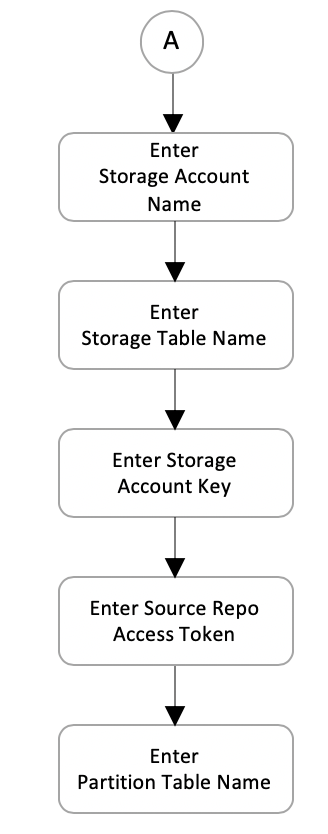
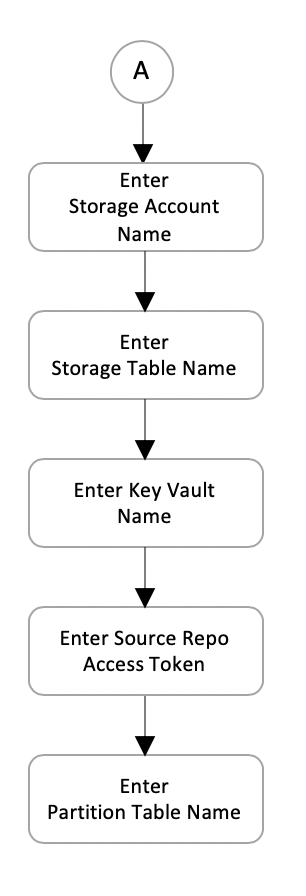
update interactive support for introspection

diff --git a/design-docs/initialization/interactiveModeForIntrospectionConfig.md b/design-docs/initialization/interactiveModeForIntrospectionConfig.md
@@ -42,12 +42,14 @@ User needs to provide these information
 
 1. Storage Account Name
    * Lowercase letters and numbers are allowed;
-   * 3 to 24 character long
+   * 3 to 24 characters long
 1. Storage Table Name
    * Alphanumeric and start with an alphabet;
-   * 3 to 63 character long
-1. Storage Account Key (Secret)
-   * cannot be empty string
+   * 3 to 63 characters long
+1. Key Vault Name
+   * Alphanumerics and hyphens.
+   * Start with letter. End with letter or digit. Can't contain consecutive hyphens.
+   * 3 to 24 characters long
 1. Source Repo Access Token (Secret)
    * cannot be empty string
 1. Partition Table Name
